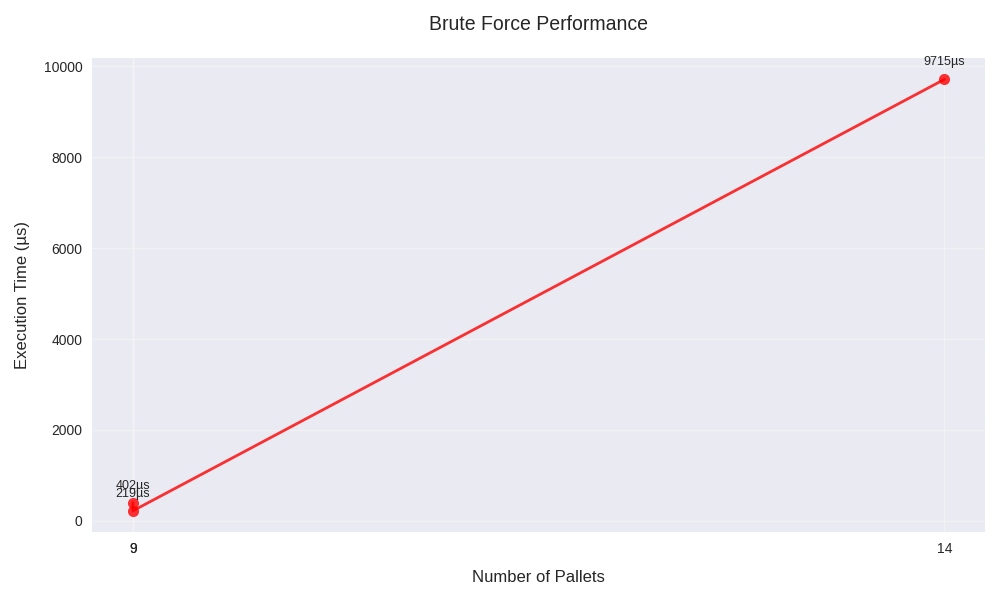
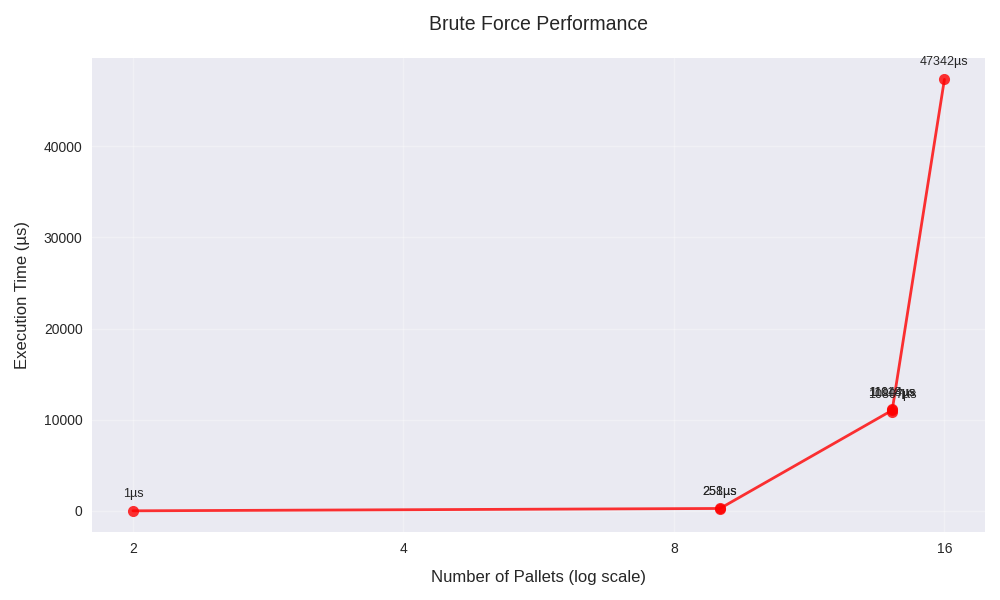
done charts

diff --git a/performance_analysis/analysis.py b/performance_analysis/analysis.py
@@ -3,80 +3,82 @@ import pandas as pd
 import numpy as np
 
 BRUTEFORCE_DATA = "./data/bruteforce_report.csv"
+BF_BACKTRACK_DATA = "./data/bruteforce_backtracking_report.csv"
 DYNAMICPROG_DATA = "./data/dynamicprog_report.csv"
 GREEDY_DATA = "./data/greedy_report.csv"
 
 def plot_algorithm(algorithm_data, algorithm_name : str, color : str):
     plt.style.use('seaborn-v0_8')
     plt.figure(figsize=(10, 6))
-
+    
+    # Filter and sort
+    algorithm_data = algorithm_data[algorithm_data["TimeMicroseconds"] > 0]
     algorithm_data = algorithm_data.sort_values("NumberPallets")
     x = algorithm_data["NumberPallets"]
-        
-    plt.plot(x, algorithm_data["TimeMicroseconds"],
-            marker='o',
-            markersize=8,
-            color=color,
-            linewidth=2,
-            alpha=0.8)
+    y = algorithm_data["TimeMicroseconds"]
     
-    # add data labels
-    for (xi, yi) in (zip(x, algorithm_data["TimeMicroseconds"])):
-        plt.annotate(f"{int(yi)}µs", 
-                    (xi, yi),
-                    textcoords="offset points",
-                    xytext=(0, 10),
-                    ha='center',
-                    fontsize=9)
+    # Main plot
+    plt.plot(x, y, marker='o', color=color, linewidth=2, label=algorithm_name)
     
-    # Customize chart
-    plt.title(f"{algorithm_name} Performance", pad=20, fontsize=14)
-    plt.xlabel("Number of Pallets", labelpad=10, fontsize=12)
-    plt.ylabel("Execution Time (µs)", labelpad=10, fontsize=12)
-    plt.xticks(x)
-    plt.grid(True, alpha=0.3)
+    # Log scales
+    plt.xscale('log', base=2)
+    plt.yscale('log')
     
-    plt.tight_layout()
-    plt.savefig(f"./output/{algorithm_name.lower().replace(' ', '')}_performance.png")
-    plt.close()
-        
-def plot_combined(algorithms_data):
-
-    plt.figure(figsize=(12, 7))
+    # Reference lines
+    x_ref = np.array([x.min(), x.max()])
+    plt.plot(x_ref, 0.1*x_ref, '--', color='gray', label='O(n)', alpha=0.3)
+    plt.plot(x_ref, 0.001*x_ref**2, '--', color='red', label='O(n²)', alpha=0.3)
     
-    x = range(len(algorithms_data[0]["data"]["Dataset"]))
-    
-    for algorithm in algorithms_data:
-        data = algorithm["data"]
-        plt.plot(x, data["TimeMicroseconds"],
-                marker='o',
-                linewidth=2,
-                markersize=8,
-                color=algorithm["color"],
-                label=algorithm["name"])
-    
-    plt.title("Algorithm Performance Comparison (Line Chart)")
-    plt.xlabel("Dataset")
-    plt.ylabel("Execution Time (µs)")
-    plt.xticks(x, algorithms_data[0]["data"]["Dataset"], rotation=45)
+    # Formatting
+    plt.title(f"{algorithm_name} Performance (Log-Log)")
+    plt.xlabel("Number of Pallets (log₂)")
+    plt.ylabel("Time (µs, log)")
+    plt.xticks([2**i for i in range(1,12)], [f"$2^{i}$" for i in range(1,12)])
+    plt.grid(True, which='both', alpha=0.3)
     plt.legend()
-    plt.grid(True, alpha=0.3)
-    
-    # highlight fastest algorithm at each point
-    for i in x:
-        times = [alg["data"]["TimeMicroseconds"].iloc[i] for alg in algorithms_data]
-        min_time = min(times)
-        plt.annotate("★", (i, min_time), 
-                    ha='center', va='bottom',
-                    fontsize=14, color='gold')
     
     plt.tight_layout()
-    plt.savefig("./output/algorithms_comparison.png")
+    plt.savefig(f"./output/{algorithm_name.lower().replace(' ', '')}_loglog.png")
     plt.close()
+        
+# def plot_combined(algorithms_data):
+
+#     plt.figure(figsize=(12, 7))
+    
+#     x = range(len(algorithms_data[0]["data"]["Dataset"]))
+    
+#     for algorithm in algorithms_data:
+#         data = algorithm["data"]
+#         plt.plot(x, data["TimeMicroseconds"],
+#                 marker='o',
+#                 linewidth=2,
+#                 markersize=8,
+#                 color=algorithm["color"],
+#                 label=algorithm["name"])
+    
+#     plt.title("Algorithm Performance Comparison (Line Chart)")
+#     plt.xlabel("Dataset")
+#     plt.ylabel("Execution Time (µs)")
+#     plt.xticks(x, algorithms_data[0]["data"]["Dataset"], rotation=45)
+#     plt.legend()
+#     plt.grid(True, alpha=0.3)
+    
+#     # highlight fastest algorithm at each point
+#     for i in x:
+#         times = [alg["data"]["TimeMicroseconds"].iloc[i] for alg in algorithms_data]
+#         min_time = min(times)
+#         plt.annotate("★", (i, min_time), 
+#                     ha='center', va='bottom',
+#                     fontsize=14, color='gold')
+    
+#     plt.tight_layout()
+#     plt.savefig("./output/algorithms_comparison.png")
+#     plt.close()
 
 def load_data():
     alg = [
         ("Brute Force", "red", BRUTEFORCE_DATA),
+        ("Brute Force Backtracking", "purple", BF_BACKTRACK_DATA),
         ("Dynamic Programming", "green", DYNAMICPROG_DATA),
         ("Greedy", "blue", GREEDY_DATA)
     ]
